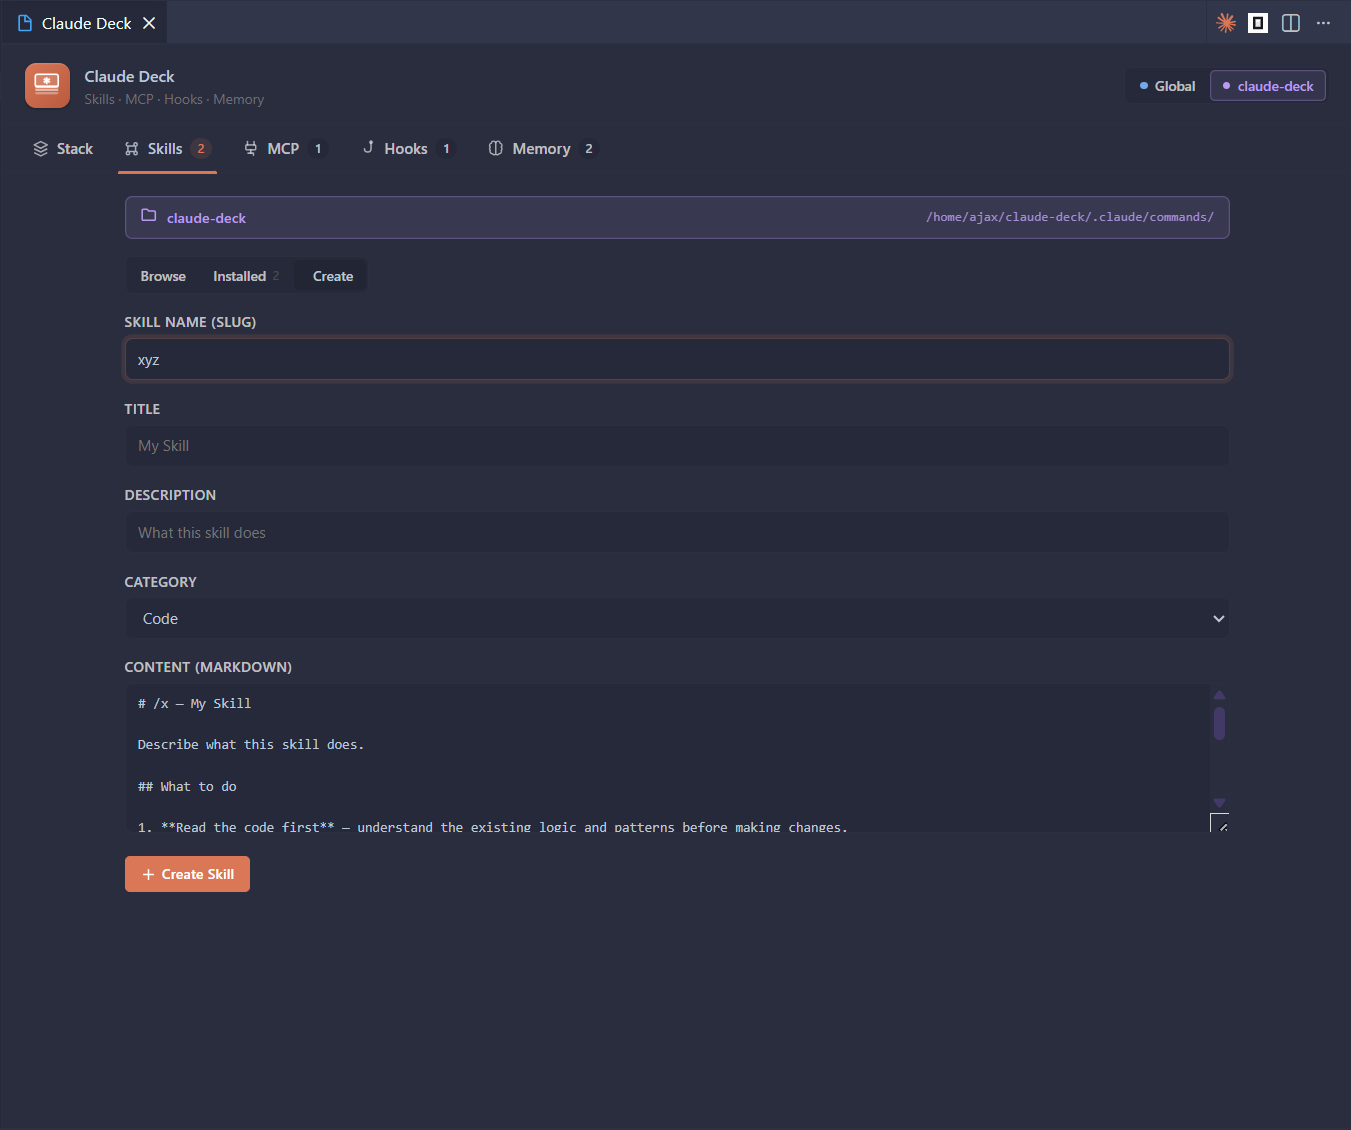
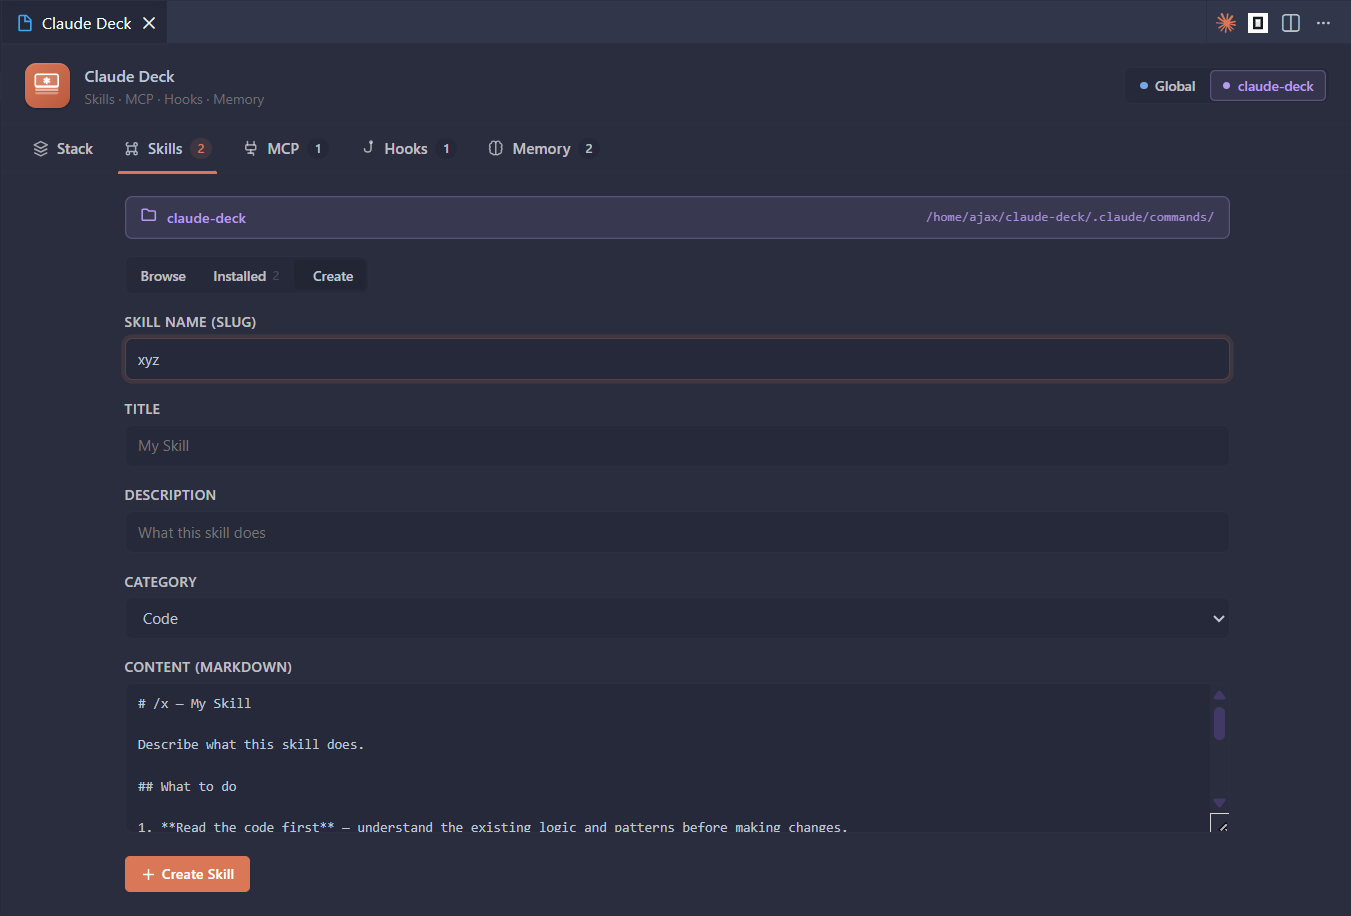
Updated readme

diff --git a/README.md b/README.md
@@ -1,55 +1,101 @@
 # Claude Deck
 
-Manage your full [Claude Code](https://claude.ai/code) capability stack from one place inside VS Code - Skills, MCP servers, Hooks, and Memory.
+[![Version](https://img.shields.io/badge/version-1.0.0-blue?style=flat-square)](https://github.com/AjaySingh10/claude-deck/releases)
+[![License](https://img.shields.io/badge/license-MIT-green?style=flat-square)](LICENSE)
+[![VS Code](https://img.shields.io/badge/VS%20Code-1.85%2B-007ACC?style=flat-square&logo=visual-studio-code)](https://marketplace.visualstudio.com/items?itemName=Ajax1029.claude-deck)
 
+**The fastest way to unlock everything Claude Code can do.**
+
+Stop editing JSON files by hand. Stop hunting for slash command syntax. Stop copy-pasting MCP configs from GitHub READMEs. Claude Deck gives you a one-click control panel - right inside VS Code - to install Skills, wire up MCP servers, configure Hooks, and manage Memory in seconds.
+
+---
+
+## Why Claude Deck?
+
+Out of the box, [Claude Code](https://claude.ai/code) is powerful. But unlocking that power means digging through docs, manually editing `settings.json`, and figuring out where to drop `.md` files. Claude Deck eliminates all of that friction:
+
+- **One click to install a skill** like `/refactor`, `/explain`, or `/security-review`
+- **One click to add an MCP server** - filesystem, GitHub, Postgres, Puppeteer, and more
+- **One click to activate a hook** - auto-format, run tests, get Slack alerts on task completion
+- **Zero config files touched** - Claude Deck writes everything for you
+
+---
 
 ## Features
 
-### Stack
-A live architecture view of your Claude Code setup: active model, installed skills, MCP servers, hooks, and memory files - all at a glance.
+### Stack - Your Claude at a Glance
 
-### Skills
-Browse and install slash commands (`/refactor`, `/debug`, `/explain`, and more) into your global or project scope. Skills are markdown files stored in `~/.claude/commands/` or `.claude/commands/`. You can also create custom skills from templates.
+A live dashboard showing your entire Claude Code setup: active model, installed skills, connected MCP servers, active hooks, and memory files - global and per-project. Know exactly what Claude has access to before you start a session.
 
-### MCP Servers
-Browse a catalog of Model Context Protocol servers and add them to your Claude settings with one click. Servers that require configuration (API keys, connection strings) show an inline form before adding.
+![stack preview](https://raw.githubusercontent.com/AjaySingh10/claude-deck/main/media/screenshots/stack.png)
 
-### Hooks
-Install pre-built lifecycle hooks - safety guards, code quality runners, notifications, and workflow helpers - that run before or after Claude tool calls. Managed in `~/.claude/settings.json` or `.claude/settings.json`.
+### Skills - One-Click Slash Commands
 
-### Memory
-View and edit memory files that are injected into every Claude session (`CLAUDE.md`, project memory, etc.).
+Browse a curated library of slash commands and install them instantly into your global or project scope. Get `/refactor`, `/debug`, `/explain`, `/security-review`, `/test`, and more - or create your own from built-in templates. Skills are just markdown files, so they're portable and version-controllable.
 
-## Installation
+![skills preview](https://raw.githubusercontent.com/AjaySingh10/claude-deck/main/media/screenshots/skills.png)
 
-Install from the VS Code Marketplace or:
+Create a custom skill from a template in seconds:
 
-```
-ext install claude-deck.claude-deck
-```
+![new skill preview](https://raw.githubusercontent.com/AjaySingh10/claude-deck/main/media/screenshots/skills-new.png)
+
+### MCP Servers - Plug In New Capabilities Instantly
+
+Add powerful Model Context Protocol servers from a built-in catalog - all with one click. Need Claude to read files? Browse GitHub? Query a database? Control a browser? It's one click away. Servers that need API keys or connection strings show an inline config form - no manual JSON editing required.
+
+![mcp preview](https://raw.githubusercontent.com/AjaySingh10/claude-deck/main/media/screenshots/mcp.png)
+
+### Hooks - Automate Your Entire Workflow
+
+Install pre-built lifecycle hooks that trigger before or after Claude tool calls. Ship with safety guards that block dangerous commands, code quality runners that auto-lint after edits, desktop notifications when long tasks finish, and workflow helpers that fit your team's process. All managed in `settings.json` - written for you automatically.
+
+![hooks preview](https://raw.githubusercontent.com/AjaySingh10/claude-deck/main/media/screenshots/hook.png)
+
+### Memory - See What Claude Remembers
+
+Browse and edit every memory file that gets injected into Claude's context - `CLAUDE.md` files, project memories, and global memories. Know exactly what Claude knows about you and your codebase.
+
+---
+
+## Getting Started
+
+1. Install from the VS Code Marketplace or run:
+   ```
+   ext install Ajax1029.claude-deck
+   ```
+2. Click the **Claude Deck icon** in the Activity Bar
+3. Install a skill, add an MCP server, or activate a hook - all in one click
+
+That's it.
+
+---
 
 ## Usage
 
-- Click the **Claude Deck** icon in the Activity Bar to open the sidebar
-- Use `Ctrl+Shift+P` → **Claude: Claude Deck** to open the full panel
-- Switch between **Global** and your project scope using the buttons in the top-right
+- **Sidebar** - live counts of your skills, MCPs, hooks, and memory files at a glance; click any row to jump straight to that tab
+- **Full panel** - `Ctrl+Shift+P` → **Claude: Claude Deck** for the complete control center
+- **Scope toggle** - switch between **Global** (all projects) and **Project** (this workspace only) at any time
+
+---
+
+## Scope
+
+Every feature supports two scopes:
+
+| Scope | Location | When it applies |
+|-------|----------|-----------------|
+| Global | `~/.claude/` | Every Claude Code session, everywhere |
+| Project | `<workspace>/.claude/` | Only when Claude runs in this workspace |
+
+---
 
 ## Requirements
 
 - VS Code 1.85+
 - [Claude Code CLI](https://claude.ai/code) installed
 
-## Scope
-
-Most features support two scopes:
-
-| Scope | Location |
-|-------|----------|
-| Global | `~/.claude/` |
-| Project | `<workspace>/.claude/` |
-
-Global settings apply to all Claude Code sessions. Project settings apply only when Claude Code is run in that workspace.
+---
 
 ## Release Notes
 
-See CHANGELOG.md for version history.
+See [CHANGELOG.md](CHANGELOG.md) for version history.
